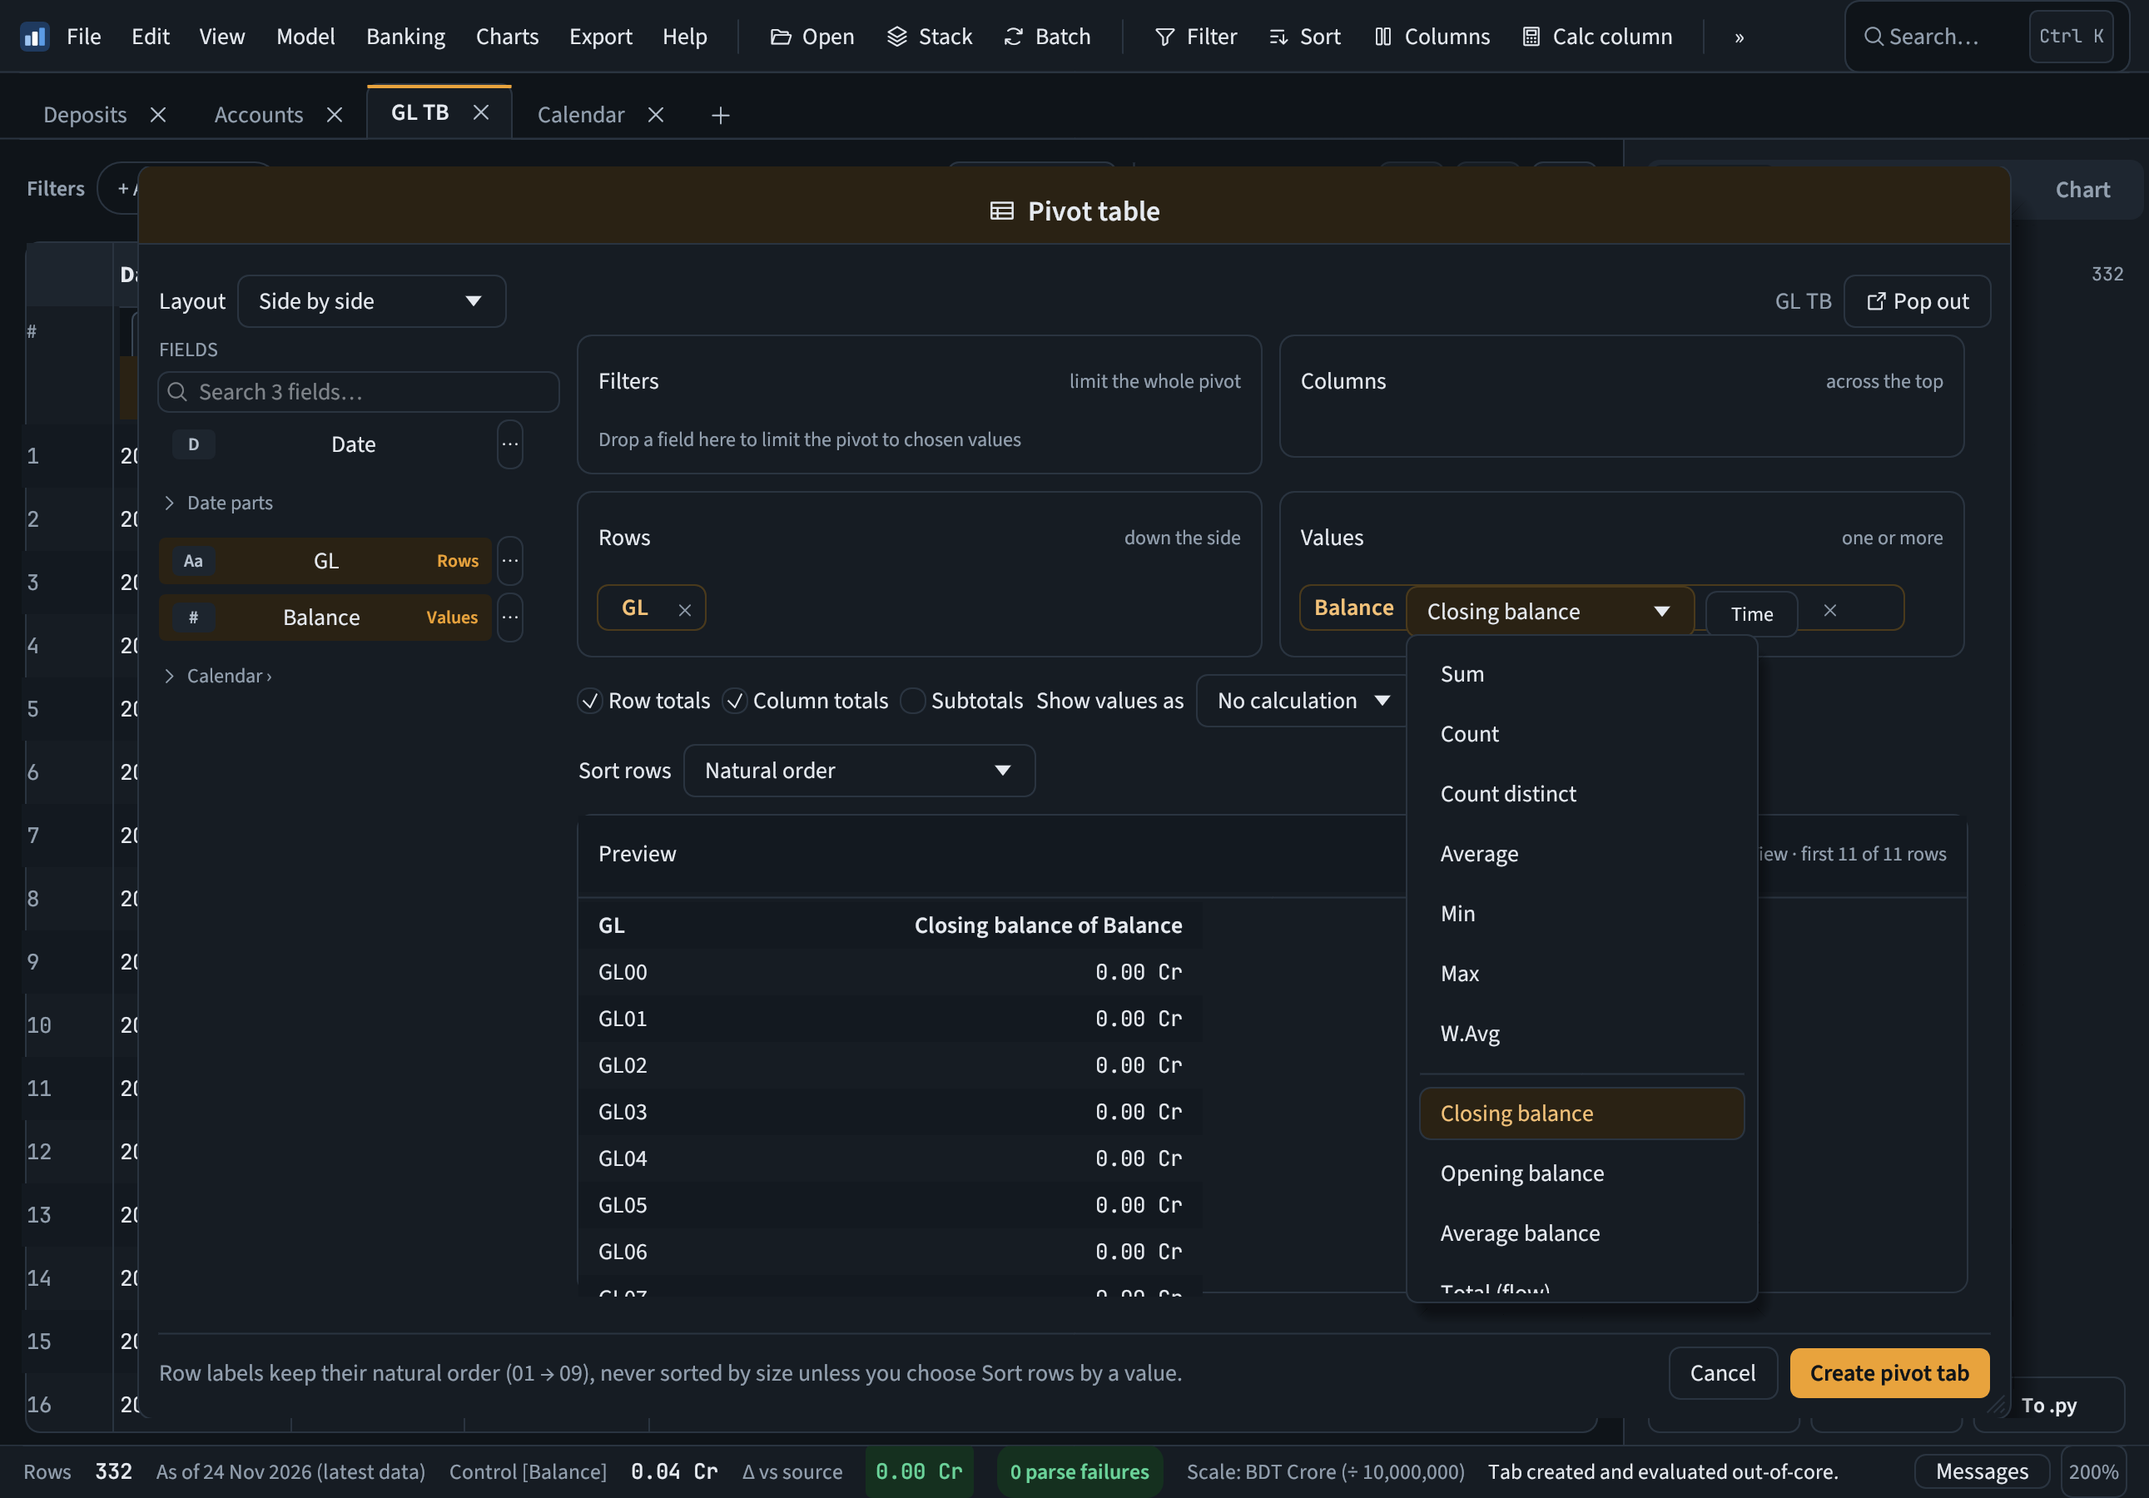
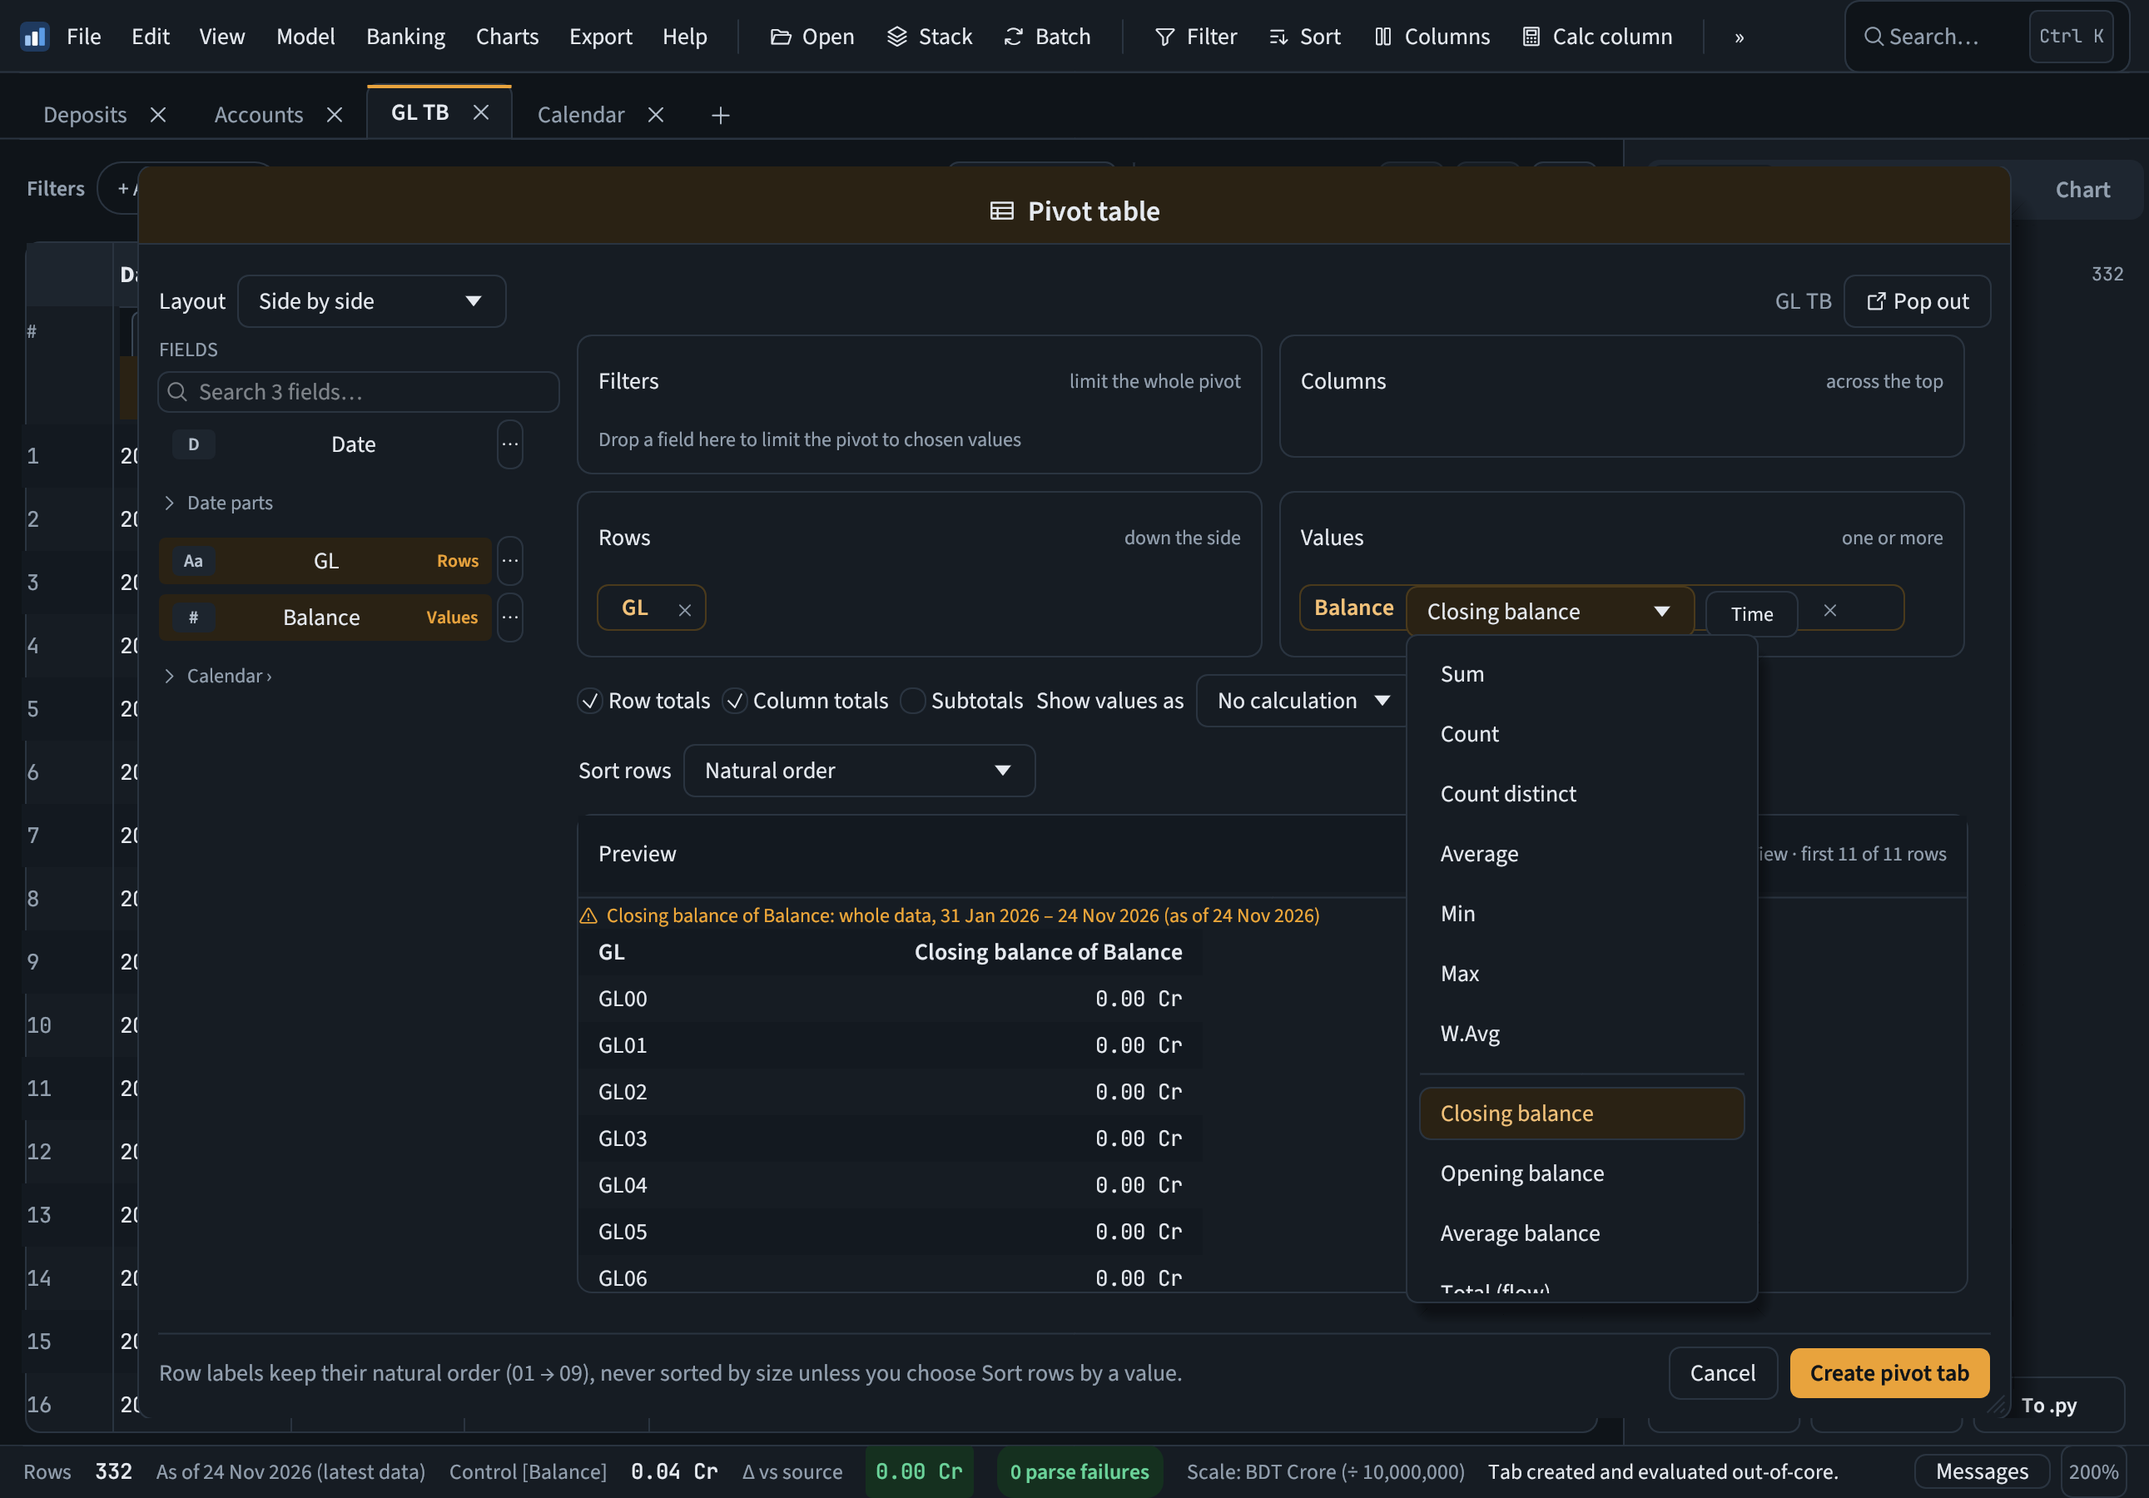
Phase 9 M4: follow-ups
A plain whole-data time value now says its span in the pivot's and the chart's notes.

Claude-Session: https://claude.ai/code/session_01JU2cq2e3KPRfBRTowBGPwB

Changed region(s): [[0.2789, 0.5911, 0.6197, 0.8711]]

diff --git a/tests/phase9/m4.rs b/tests/phase9/m4.rs
@@ -292,3 +292,28 @@ fn m4_a_chart_with_a_series_gives_one_line_per_key_and_a_chart_that_mixes_time_a
     let e = micro_parquet::model::with_scope(sc, || micro_parquet::charts::calc::compute(micro_parquet::engine::compile_tab_lazy(&src, &[], &dd).expect("source"), &spec)).err().map(|e| format!("{e:#}")).expect("a refusal");
     assert!(e.contains("can't share a chart with an ordinary aggregation"), "{e}");
 }
+
+#[test]
+fn m4_a_plain_value_with_no_calendar_field_says_which_span_it_covers_and_one_with_a_period_field_does_not() {
+    let dd = dir("p9m4_span_note");
+    let df = daily("2025-01-01", "2026-11-24");
+    let sc = scope(&dd, settings(1), "2026-11-24", vec![]);
+    let plain = PivotValue { field: "Balance".into(), agg: PivotAgg::Sum, weight_col: None, time: Some(TimeValue::of(TimeAgg::ClosingBalance)) };
+    let b = run(&dd, &df, sc.clone(), &spec(&["Branch"], &[], vec![plain.clone()], &[]));
+    assert_eq!(b.warnings, ["Closing balance of Balance: whole data, 1 Jan 2025 \u{2013} 24 Nov 2026 (as of 24 Nov 2026)"]);
+    // another as-of date moves the end of the span
+    let sc2 = scope(&dd, settings(1), "2026-10-31", vec![]);
+    let b = run(&dd, &df, sc2, &spec(&["Branch"], &[], vec![plain.clone()], &[]));
+    assert_eq!(b.warnings, ["Closing balance of Balance: whole data, 1 Jan 2025 \u{2013} 31 Oct 2026 (as of 31 Oct 2026)"]);
+    // a value with an M4 choice (MTD) covers its own window, and a pivot with a Calendar period field covers each period: no note
+    let mtd = tv("Balance", TimeAgg::ClosingBalance, TimeWindow::Mtd, TimeShift::None, TimeShow::Value, TimePartial::SameDays);
+    assert!(run(&dd, &df, sc.clone(), &spec(&["Branch"], &[], vec![mtd], &[])).warnings.is_empty());
+    let b = run(&dd, &df, sc.clone(), &spec(&[&month_year()], &[], vec![plain.clone()], &["Month-Year"]));
+    assert!(b.warnings.is_empty(), "{:?}", b.warnings);
+    // the chart's notes carry it too
+    use micro_parquet::charts::spec::{ChartSpec, MeasureSpec};
+    let src = crate::common::parquet(&dd, "accounts", &df);
+    let cs = ChartSpec { category: "Branch".into(), data_tab: "t1".into(), measures: vec![MeasureSpec { column: Some("Balance".into()), time: Some(TimeValue::of(TimeAgg::ClosingBalance)), ..Default::default() }], ..Default::default() };
+    let data = micro_parquet::model::with_scope(sc, || micro_parquet::charts::calc::compute(micro_parquet::engine::compile_tab_lazy(&src, &[], &dd).expect("source"), &cs)).unwrap_or_else(|e| panic!("the chart: {e:#}"));
+    assert!(data.notes.iter().any(|n| n == "Closing balance of Balance: whole data, 1 Jan 2025 \u{2013} 24 Nov 2026 (as of 24 Nov 2026)"), "{:?}", data.notes);
+}

diff --git a/src/pivot_time.rs b/src/pivot_time.rs
@@ -32,6 +32,8 @@ pub struct TimeResult {
     pub date_column: String,
     /// The date column is a Date and time column (Show rows can't pick its days by value).
     pub date_is_datetime: bool,
+    /// Value index, first date, last date, as-of date: the span a plain whole-data value covers. Only when the pivot has no Calendar field.
+    pub spans: Vec<(usize, NaiveDate, NaiveDate, NaiveDate)>,
 }
 
 /// The pivot's own Calendar fields: the fields of the date link of its data tab.
@@ -302,7 +304,7 @@ pub fn fill_time_cells(lf: LazyFrame, spec: &PivotSpec, schema: &Schema, levels:
         base: Option<crate::measures::Base>,
     }
     let mut periods: HashMap<Vec<Option<Option<String>>>, PeriodInfo> = HashMap::new();
-    let mut out = TimeResult { month_end, notes: HashMap::new(), rows: HashMap::new(), date_column: link.column.clone(), date_is_datetime: schema.get(link.column.as_str()).is_some_and(|d| matches!(d, DataType::Datetime(..))) };
+    let mut out = TimeResult { month_end, notes: HashMap::new(), rows: HashMap::new(), date_column: link.column.clone(), date_is_datetime: schema.get(link.column.as_str()).is_some_and(|d| matches!(d, DataType::Datetime(..))), spans: Vec::new() };
     for (rk, ck) in targets {
         // the cell's non-Calendar key, in field order
         let mut nc_key: Vec<Option<String>> = Vec::new();
@@ -430,6 +432,16 @@ pub fn fill_time_cells(lf: LazyFrame, spec: &PivotSpec, schema: &Schema, levels:
                 Measured::Blank(why) => {
                     slot[j] = None;
                     out.notes.insert((rk.clone(), ck.clone(), j), why);
+                }
+            }
+        }
+    }
+    // a plain value with no Calendar field keeps M3's whole-span number: say which span that is
+    if cal_at.is_empty() {
+        if let Some(first) = first_snap.filter(|f| *f <= as_of) {
+            for &j in &time_js {
+                if !spec.values[j].time.unwrap_or_default().is_m4() {
+                    out.spans.push((j, first, as_of, as_of));
                 }
             }
         }

diff --git a/src/ui/render_tests_p9.rs b/src/ui/render_tests_p9.rs
@@ -3246,11 +3246,12 @@ fn m3_the_aggregation_choice_in_values_lists_the_time_aggregations_on_a_date_lin
             assert_eq!(rig.app.pivot_builder.preview_warnings, ["Sum of Balance adds 34 dates of balances. Use Closing balance or Average balance."], "{what}");
             assert!(painted_has(&p, "Sum of Balance adds 34 dates of balances."), "{what}: the banner is drawn");
             assert!(!rig.app.pivot_builder.rects.warnings.is_empty(), "{what}");
-            // Closing balance again: no warning
+            // Closing balance again: no stock warning, only the note of the span it covers (M4 follow-up)
             let combo = rig.app.pivot_builder.rects.agg_combos[0].1;
             pick_agg(&mut rig, combo, "Closing balance", &what);
-            pump_until(&mut rig, "no warning", &|r| r.app.pivot_builder.preview_warnings.is_empty() && matches!(r.app.pivot_builder.preview, Some(Ok(_))));
-            assert!(rig.app.pivot_builder.rects.warnings.is_empty(), "{what}");
+            pump_until(&mut rig, "no warning", &|r| r.app.pivot_builder.preview_warnings.iter().all(|w| w.contains(": whole data, ")) && matches!(r.app.pivot_builder.preview, Some(Ok(_))) && !r.app.pivot_builder.preview_warnings.is_empty());
+            assert_eq!(rig.app.pivot_builder.preview_warnings.len(), 1, "{what}: {:?}", rig.app.pivot_builder.preview_warnings);
+            assert!(rig.app.pivot_builder.preview_warnings[0].starts_with("Closing balance of Balance: whole data, "), "{what}");
         }
     }
 }

diff --git a/tests/phase9/m3.rs b/tests/phase9/m3.rs
@@ -357,8 +357,8 @@ fn m3_a_plain_sum_of_a_tagged_balance_over_many_dates_warns_and_an_untagged_colu
     let c = run(&dd, &df, sc.clone(), &spec(&["Branch"], &[], vec![plain("Balance", PivotAgg::Count)], &[]));
     assert_eq!(c.warnings, ["Count of Balance adds 23 dates of balances. Use Closing balance or Average balance."]);
     assert!(run(&dd, &df, sc.clone(), &sum_of("Fee")).warnings.is_empty(), "an untagged column has no warning");
-    // the closing balance is the right aggregation: no warning
-    assert!(run(&dd, &df, sc.clone(), &spec(&["Branch"], &[], vec![time("Balance", TimeAgg::ClosingBalance)], &[])).warnings.is_empty());
+    // the closing balance is the right aggregation: no stock warning, only the note of the span it covers (M4 follow-up)
+    assert_eq!(run(&dd, &df, sc.clone(), &spec(&["Branch"], &[], vec![time("Balance", TimeAgg::ClosingBalance)], &[])).warnings, ["Closing balance of Balance: whole data, 1 Nov 2026 \u{2013} 23 Nov 2026 (as of 23 Nov 2026)"]);
     // an old pivot (no data tab), and the same pivot with the tag removed, give the same numbers and no warning
     let mut old = sum_of("Balance");
     old.data_tab = String::new();

diff --git a/src/pivot_table.rs b/src/pivot_table.rs
@@ -417,7 +417,7 @@ pub fn build_pivot(lf: LazyFrame, spec: &PivotSpec) -> Result<PivotBuild> {
         .collect();
 
     let lf_time = if spec.has_time_values() { Some(lf.clone()) } else { None };
-    let warnings = crate::pivot_time::stock_warnings(&lf, spec, &schema)?;
+    let mut warnings = crate::pivot_time::stock_warnings(&lf, spec, &schema)?;
     let work = working_frame(lf, spec, &schema);
     let rows_idx: Vec<usize> = (0..nr).collect();
     let cols_idx: Vec<usize> = (nr..nr + nc).collect();
@@ -491,6 +491,14 @@ pub fn build_pivot(lf: LazyFrame, spec: &PivotSpec) -> Result<PivotBuild> {
             None => v.label(),
         }
     };
+
+    if let Some(t) = &time_result {
+        for (j, a, b, as_of) in &t.spans {
+            if let Some(v) = spec.values.get(*j) {
+                warnings.push(crate::measures::span_note(&heading(v), *a, *b, *as_of));
+            }
+        }
+    }
 
     let sort = spec.sort_by_value;
     let field_orders: Vec<SortOrder> = all_fields

diff --git a/src/measures.rs b/src/measures.rs
@@ -498,3 +498,9 @@ pub fn combine(show: crate::models::TimeShow, shifted: bool, current: Measured, 
 pub fn stock_warning(agg_label: &str, column: &str, dates: usize) -> String {
     format!("{} of {} adds {} dates of balances. Use Closing balance or Average balance.", agg_label, column, dates)
 }
+
+/// The note of a plain time value with no Calendar field: the whole data it covers, so the number can't be misread.
+pub fn span_note(heading: &str, first: NaiveDate, last: NaiveDate, as_of: NaiveDate) -> String {
+    use crate::model_calendar::long_date;
+    format!("{}: whole data, {} \u{2013} {} (as of {})", heading, long_date(first), long_date(last), long_date(as_of))
+}

diff --git a/docs/phase9-spec.md b/docs/phase9-spec.md
@@ -548,6 +548,11 @@ Sessions record their choices here and in `docs/phase9-progress.md`, for the own
 - **M4-10:** charts. `ChartSpec.time` (the one measure) and `MeasureSpec.time` carry the shared `TimeValue`; a chart with a time measure is calculated by `build_pivot` for rows = the category and columns = the series, so a mark is the pivot's cell. Its categories are in the pivot's order (Calendar order for a Calendar field); By value, Top N and "Other" are not applied. A chart that mixes a time measure with an ordinary one, has small multiples, a size, a scatter, bubble, histogram or box form, or a date part of the tab's own column as its category is refused in words. A chart filter or a drill level takes its rows away before the series, so the snapshot dates are those of the rows left. The first four blank marks are named in the chart's notes with their reasons. Python export of such a chart is refused with the `<conventions>` wording.
 - **M4-11:** the Values chip of a time aggregation has a "Time" button that opens a popup with four rows of choices (Window, Shift, Show, Partial period); Difference and % change are greyed while the shift is None, and choosing no shift puts Show back to Value. The chart studio has the same four choices as combo rows under the aggregation.
 
+**Owner decisions on S7** (given at the start of S8):
+- **Accepted:** M3-11 to M3-14 and M4-1 to M4-11.
+- **M4-1 follow-up:** a plain Period value with no Calendar field keeps M3's whole-span number, and the "needs a period field" refusal starts once a shift is chosen: accepted. So the number can't be misread, the pivot's notes (and the chart's notes) state the span it covers, for example "Closing balance of Balance: whole data, 1 Jan 2025 \u2013 24 Nov 2026 (as of 24 Nov 2026)". Test: the note's dates on the daily example, and no note when the pivot has a Calendar period field (or the value has an M4 choice).
+- The chart studio's time-aggregation list was not opened by a headless click: the owner checks it by eye. Left as recorded.
+
 **Found, not changed (S2):**
 - The Side by side layout's Subtotals box was checked for Average, W.Avg, Count distinct, Min and Max: each subtotal is calculated from the group's own rows (one group-by per level), not added up from the cells (`p2_side_by_side_subtotals_are_calculated_from_the_group_s_rows_not_added_up`). So there is nothing to record here, and nothing was changed.
 - In a fresh pivot dialog, a first click on the "..." menu of the second field in the list does not open the menu in the headless render test (a second click does; the first and the third field open at once). It is not reproduced or looked at in a real window. The P9 test helper clicks once more. Not changed.

diff --git a/docs/phase9-progress.md b/docs/phase9-progress.md
@@ -353,3 +353,16 @@ Not tested by a real click: picking a time aggregation from the chart studio's A
 Pictures (light and dark, written by `m4_pictures_...`): `docs/guide/img/pivot-time-choices.png`, `pivot-time-needs-period.png`, `pivot-time-prior-period.png`, `chart-time-sply.png` (each with `-dark`). Found by looking at them: the % columns first showed in Crore (the test helper had no column formats; fixed by passing them) and the chart showed a % divided into Crore (the chart's scale is chosen in the app from the value column; a % change is now never scaled, its tooltip says "%"). In `chart-time-sply` the side panel's own small chart is the chart tab's data, not the M4 chart.
 
 Proved to fail without the fix (two stubs, each restored, run one at a time): Same days ignored (always the full shifted period): `m4_mtd_and_sply...` and `m4_a_pivot_by_month_year...`; a zero earlier value shown as 0 instead of blank: `m4_a_pivot_by_month_year...`.
+
+## S8: owner decisions on S7, the M4 follow-up and M5
+
+Owner decisions on S7 (24 Nov 2026), also in `<accepted_deviations>` of the spec ("Owner decisions on S7"): M3-11 to M3-14 and M4-1 to M4-11 accepted; M4-1 follow-up: the pivot's and the chart's notes state the span of a plain whole-data value ("Closing balance of Balance: whole data, 1 Jan 2025 \u2013 24 Nov 2026 (as of 24 Nov 2026)"); the chart studio's time-aggregation list is checked by the owner by eye (left as recorded).
+
+### M4 follow-up (span note): item -> test
+
+| Acceptance item | Test |
+| --- | --- |
+| A plain whole-data value says its span in the pivot's notes: "Closing balance of Balance: whole data, 1 Jan 2025 – 24 Nov 2026 (as of 24 Nov 2026)"; the as-of date moves its end; no note with a Calendar period field or with an M4 choice (MTD); the chart's notes carry it | `tests/phase9/m4.rs` `m4_a_plain_value_with_no_calendar_field_says_which_span_it_covers_and_one_with_a_period_field_does_not` |
+| Existing tests that expected no note now expect it | `m3_a_plain_sum_of_a_tagged_balance...` (tests/phase9/m3.rs), UI `m3_the_aggregation_choice_in_values_lists...` (a stock warning gone, the span note left) |
+
+Proved to fail without the fix (note push stubbed, restored): `m4_a_plain_value_with_no_calendar_field...` fails (left: [] right: [the note]). Picture `pivot-time-aggregations(-dark).png` rewritten on purpose (it now shows the note); the other pictures a full run rewrote were restored. Full `cargo test --no-fail-fast`: all green except the two tests above, fixed and run alone.
